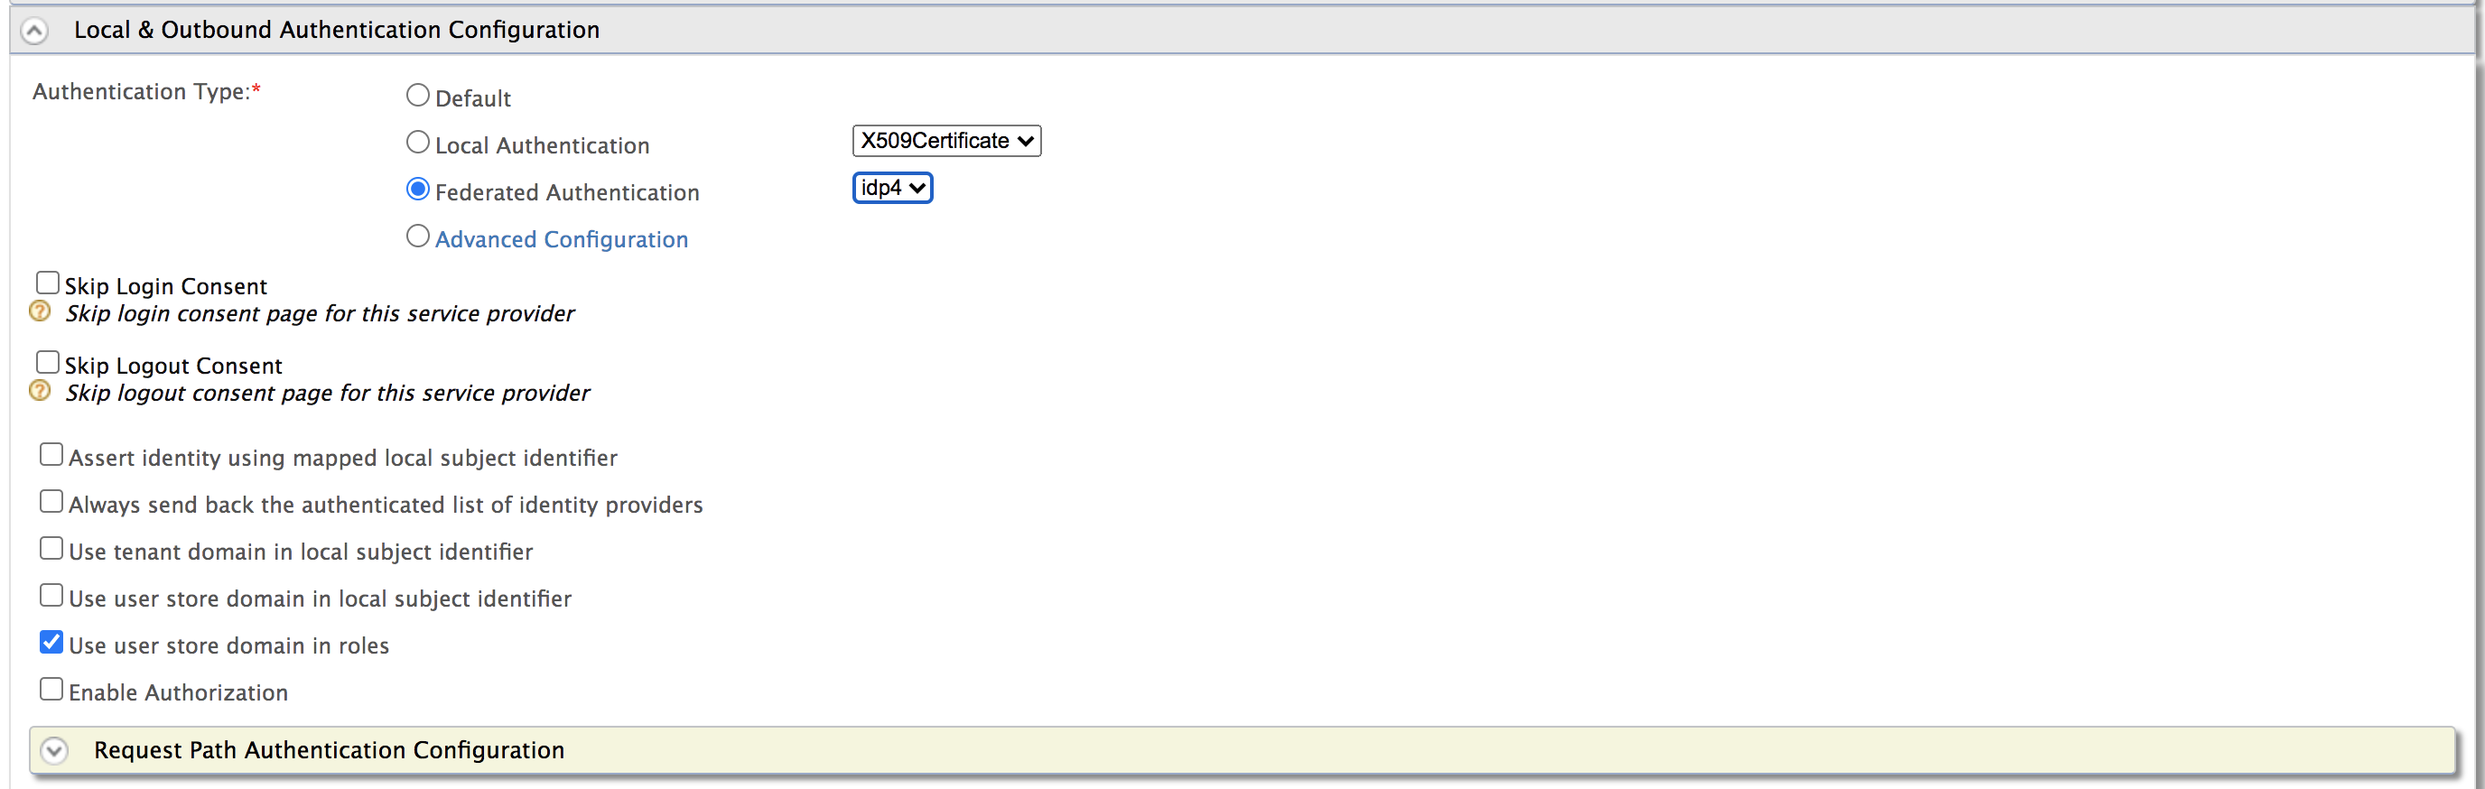
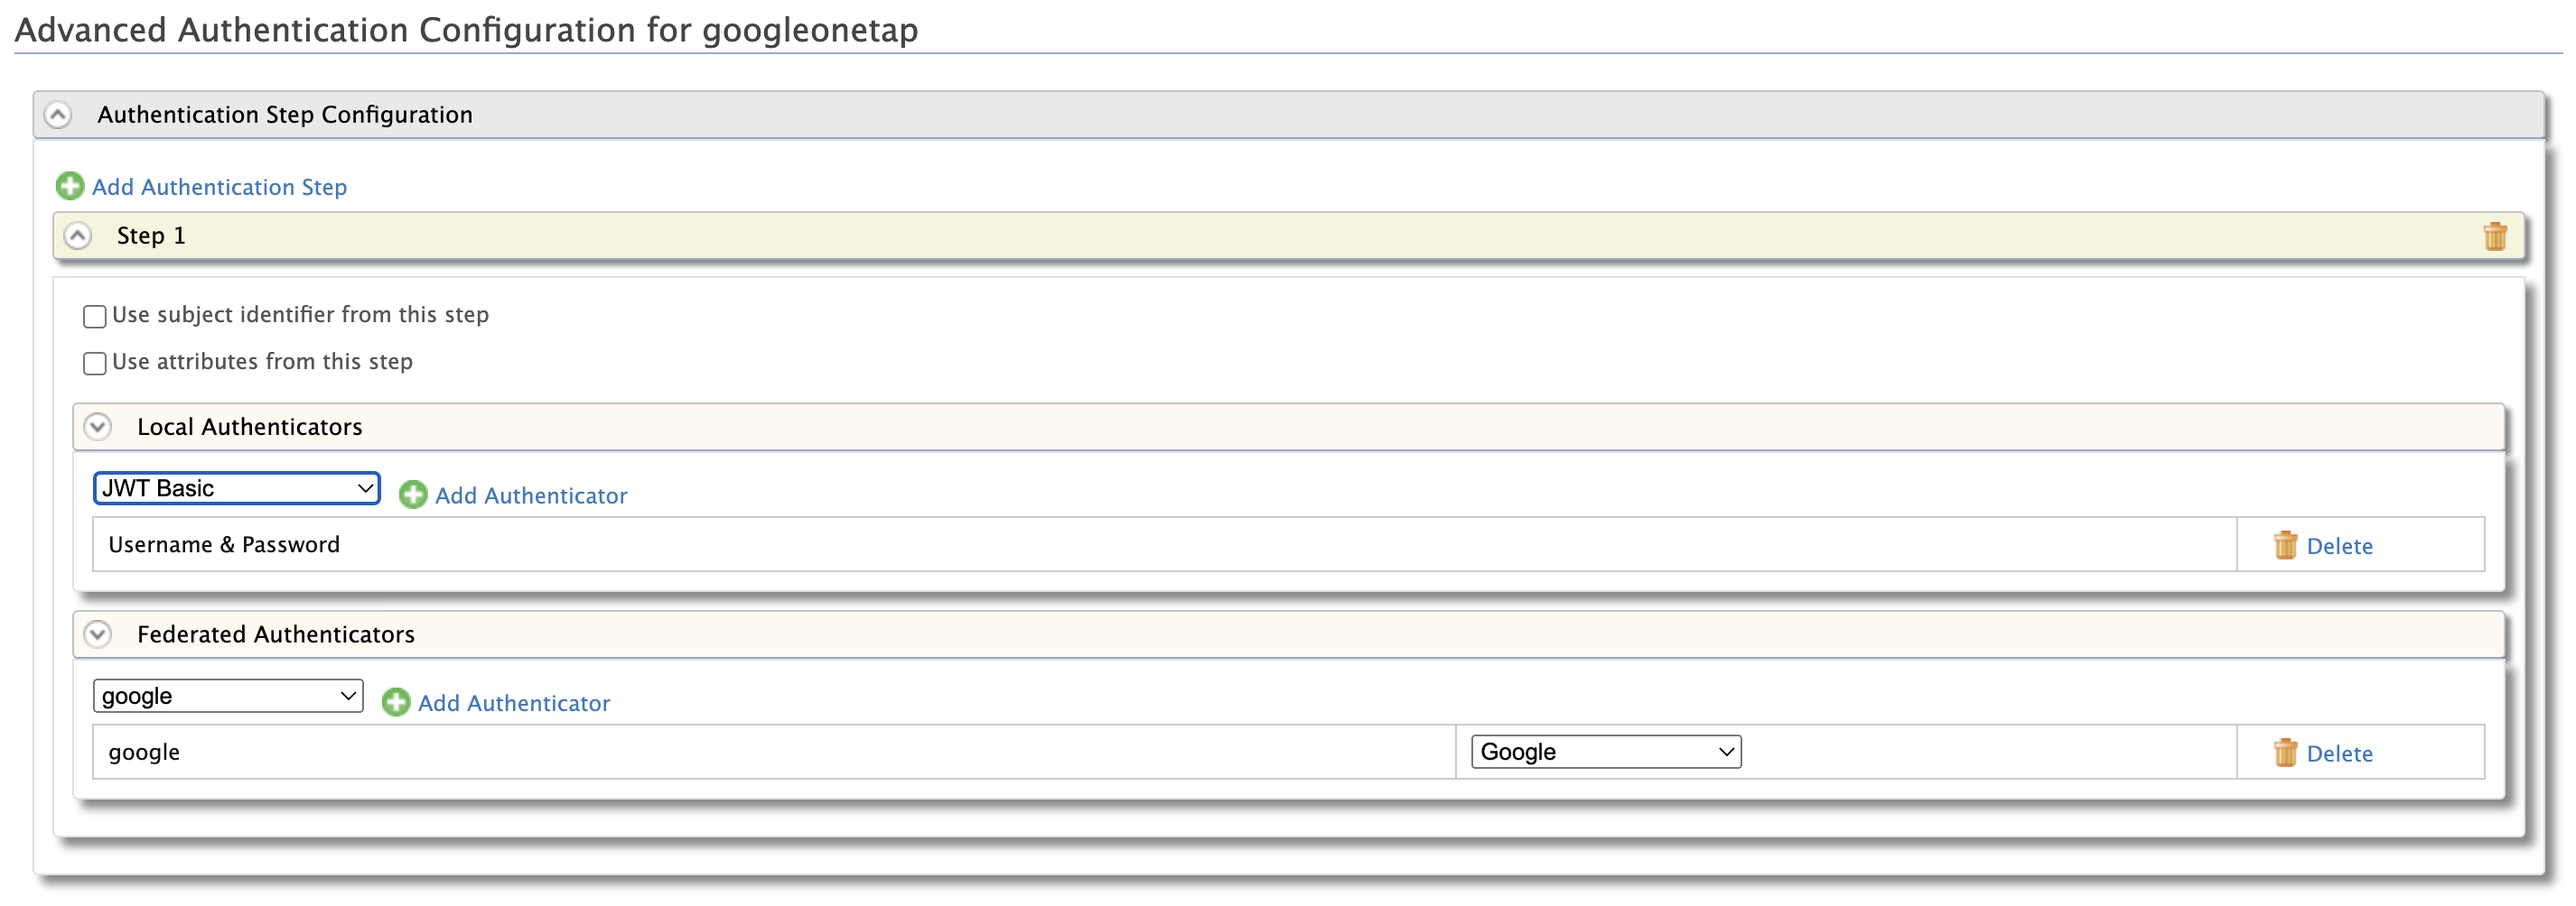
google one tap improvements

Changed region(s): [[0.0, 0.0, 1.0, 1.0], [0.875, 0.587, 0.9375, 0.6178]]

diff --git a/en/docs/guides/identity-federation/google.md b/en/docs/guides/identity-federation/google.md
@@ -83,14 +83,18 @@ First, configure a Google app, which you can use to integrate WSO2 IS.
 
     ![OAuth-id-secret]({{base_path}}/assets/img/guides/oauth-id-secret.png)
 
-9. Go to the **Local and Outbound Authentication Configuration** section.
+10. Go to the **Local and Outbound Authentication Configuration** section.
 
-10. For **Authentication Type**, select the **Federated Authentication** radio button and select the
-    Identity Provider you created from the dropdown list under
-    **Federated Authentication**.  
+11. To configure the **Authentication Type**, select **Advanced Configuration**, and then click it.
+
+12. Expand **Step 1** and configure two authenticators for this authentication step:
+
+    - **Local Authenticator**: Select `Username & Password` from the list.
+    - **Federated Authenticators**: Select the Google identity provider that you configured for this tutorial.
+
     ![identity-provider-in-federated-authentication]({{base_path}}/assets/img/guides/identity-provider-in-federated-authentication.png)
 
-11. Click **Update** to save the changes.
+13. Click **Update** to return to the service provider configuration page and then click **Update** again to save the changes.
 
 ---
 
@@ -122,7 +126,7 @@ application.
 Deploy this sample web app on a web container.
 
 1. Copy the `pickup-dispatch.war`file into the `webapps` folder. For
-   example, ` <TOMCAT_HOME>/apache-tomcat-<version>/webapps`
+   example, ` <TOMCAT_HOME>/apache-tomcat-<version>/webapps`.
 
 2. Open a terminal window and add the following entry to the
    `/etc/hosts` file of your machine to configure
@@ -167,15 +171,18 @@ To test the sample:
 
     ![Pickup-dispatch application]({{base_path}}/assets/img/samples/pickup-dispatch-login.png)
 
-2. Click **Login**. 
+2.  Click **Login**. 
 
     You are redirected to the Google login page.
 
-3.  If you don't have **Google One Tap** enabled, click **Sign in with Google**.
-  
-    ![Google login page]({{base_path}}/assets/img/samples/sign-in-google.png)
+3.  Click **Sign in with Google** to be redirected to the Google sign-in page.
 
-4. Select your preferred Google account and sign in using your Google credentials. 
+    !!! Note
+        If you have **Google One Tap** enabled for your Google IdP, you will be able to skip this step. See the instructions on [signing in with Google One Tap](#sign-in-with-google-one-tap).
+
+    <img src="{{base_path}}/assets/img/samples/sign-in-google.png" alt="Google login page" width="400">
+  
+4. Select your preferred Google account and sign in with your Google credentials.
 
 You are redirected to the sample application's home page.
 
